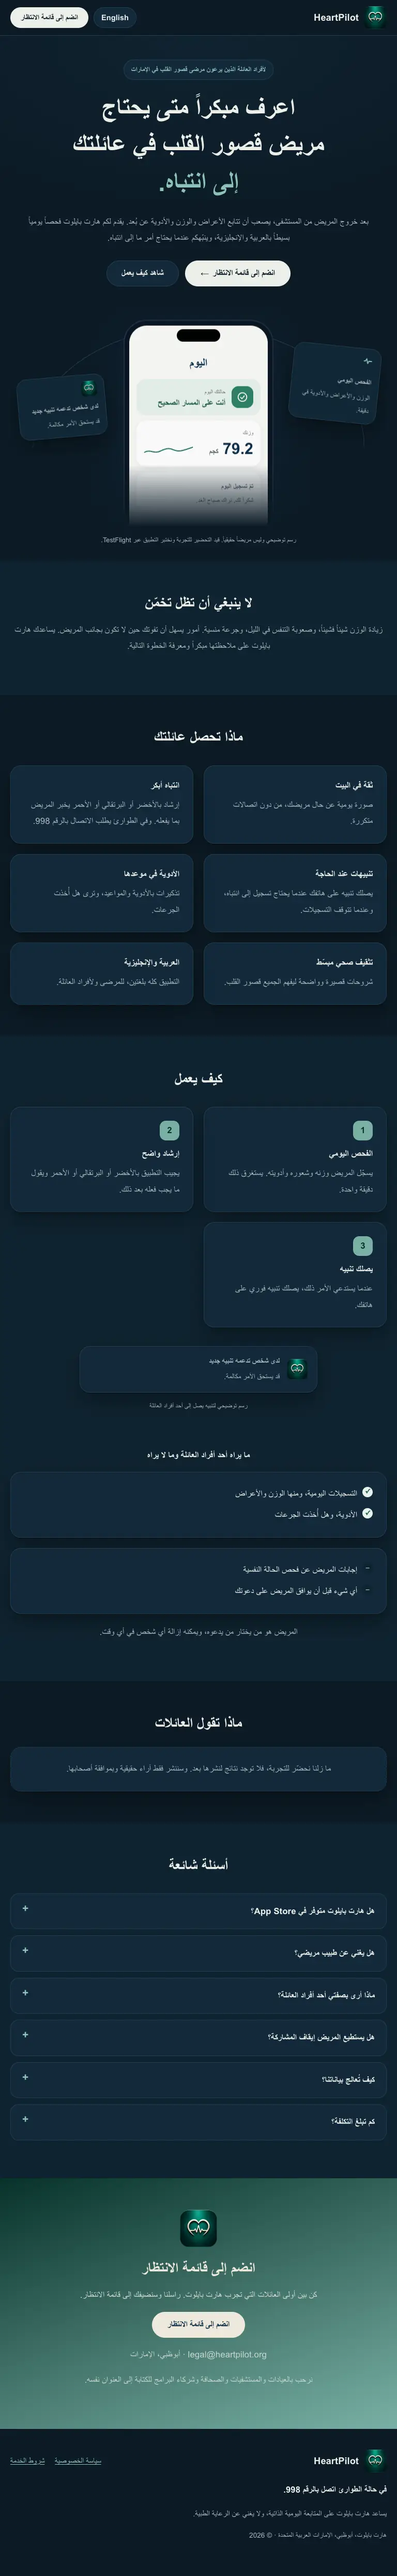
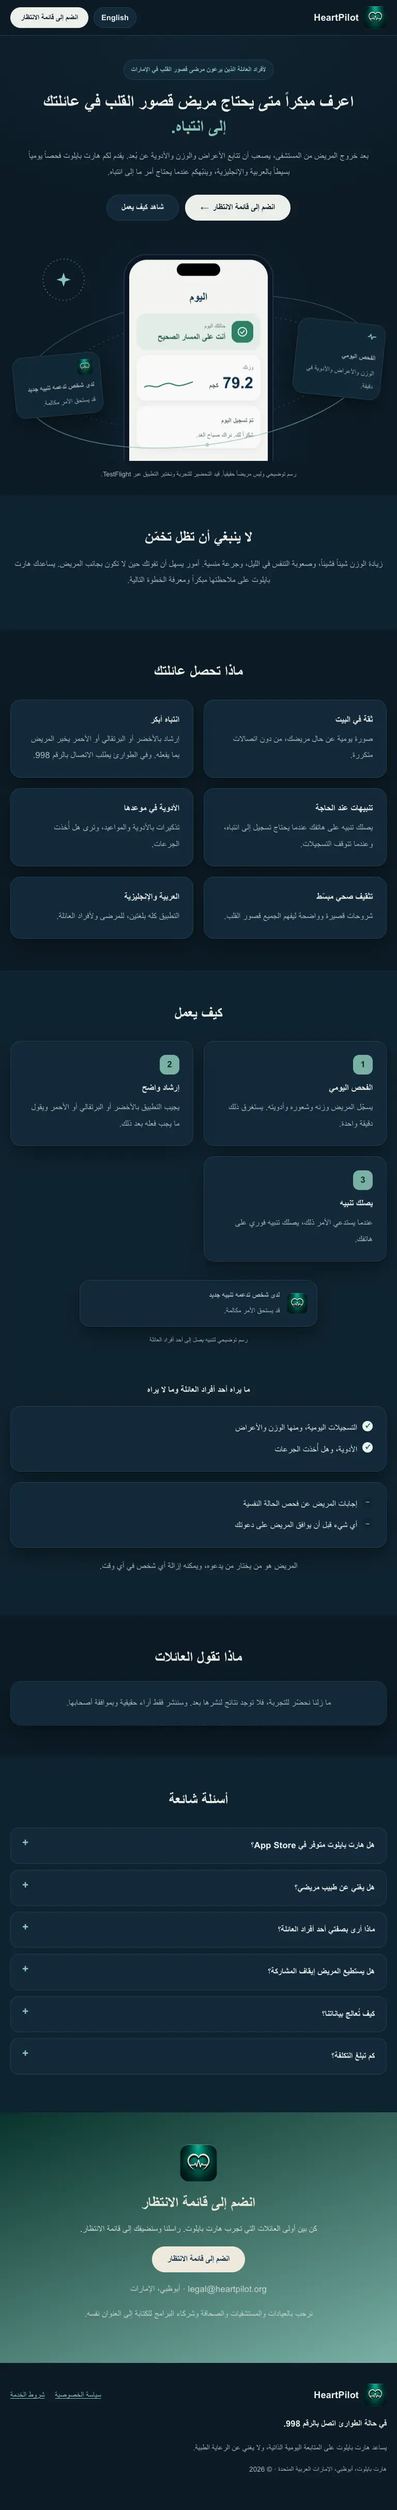
Add an orbit around the hero phone, with a rotating badge

diff --git a/assets/css/styles.css b/assets/css/styles.css
@@ -49,9 +49,9 @@ p{margin:0 0 1em}
 /* hero (layout after the supplied reference: centred headline, italic second line, glass cards around a central visual) */
 .hero{padding:clamp(36px,6vw,80px) 0 0;background:radial-gradient(900px 480px at 50% 0%,var(--alt),transparent 70%);overflow:hidden}
 .eyebrow{display:inline-block;margin:0 0 20px;padding:6px 14px;border-radius:999px;background:var(--surface);border:1px solid var(--line);color:var(--teal-text);font-weight:700;font-size:.85rem}
-.hero h1{font-size:clamp(2.2rem,6.4vw,4.6rem);line-height:1.08;letter-spacing:-.03em;max-width:16em;margin-inline:auto;text-wrap:balance}
+.hero h1{font-size:clamp(2.1rem,5.2vw,4.1rem);line-height:1.1;letter-spacing:-.03em;max-width:19em;margin-inline:auto;text-wrap:balance}
 .hero h1 em{display:block;font-style:italic;font-weight:400;color:var(--teal-text)}
-html[lang=ar] .hero h1 em{font-style:normal;font-weight:700}
+html[lang=ar] .hero h1{font-size:clamp(1.8rem,4.4vw,3.3rem);line-height:1.4}html[lang=ar] .hero h1 em{font-style:normal;font-weight:700}
 .hero .lead{max-width:40em;margin:0 auto 28px}
 .cta{display:flex;flex-wrap:wrap;gap:12px;justify-content:center;margin:0 0 8px}
 .btn-dark{background:var(--ink);border-color:var(--ink);color:var(--bg)}
@@ -59,10 +59,18 @@ html[lang=ar] .hero h1 em{font-style:normal;font-weight:700}
 .btn-ghost{background:var(--surface);color:var(--ink);border:1px solid var(--line)}
 .btn-ghost:hover{border-color:var(--ink);box-shadow:none}
 .arr{font-style:normal;margin-inline-start:8px}html[dir=rtl] .arr{display:inline-block;transform:scaleX(-1)}
-.stage{position:relative;max-width:980px;margin:44px auto 0;height:clamp(420px,52vw,560px);overflow:hidden}
+.stage{position:relative;max-width:1040px;margin:44px auto 0;height:clamp(420px,52vw,560px);overflow:hidden}
 .stage::after{content:"";position:absolute;inset-inline:0;bottom:0;height:120px;background:linear-gradient(transparent,var(--bg));pointer-events:none}
-.arc{position:absolute;inset:0;width:100%;height:100%;color:var(--line)}
-.phone{position:absolute;inset-inline:0;margin-inline:auto;top:20px;width:min(290px,64vw);height:560px;background:#0B1623;border-radius:44px;padding:11px;box-shadow:0 30px 70px rgba(16,49,74,.3),inset 0 0 0 2px #223249;animation:rise .9s cubic-bezier(.2,.7,.2,1) both}
+.orbit{position:absolute;inset:0;width:100%;height:100%;color:var(--teal);pointer-events:none}
+.orbit-back{opacity:.35;z-index:0}.orbit-front{opacity:.55;z-index:4}
+.badge{position:absolute;inset-inline-end:7%;top:18px;width:104px;height:104px;color:var(--teal-text);z-index:5}
+.badge svg{width:100%;height:100%;overflow:visible}
+.badge text{font:700 9.5px Arial,sans-serif;letter-spacing:.18em;fill:currentColor}
+html[lang=ar] .badge text{letter-spacing:0;font-size:11px}
+.spin{transform-origin:60px 60px;animation:spin 28s linear infinite}
+@keyframes spin{to{transform:rotate(360deg)}}
+@media (max-width:640px){.badge{display:none}}
+.phone{z-index:2;position:absolute;inset-inline:0;margin-inline:auto;top:20px;width:min(290px,64vw);height:560px;background:#0B1623;border-radius:44px;padding:11px;box-shadow:0 30px 70px rgba(16,49,74,.3),inset 0 0 0 2px #223249;animation:rise .9s cubic-bezier(.2,.7,.2,1) both}
 .notch{position:absolute;top:18px;inset-inline:0;margin-inline:auto;width:84px;height:24px;background:#000;border-radius:14px;z-index:2}
 .screen{height:100%;border-radius:34px;background:#FAF9F7;padding:52px 14px 14px;display:flex;flex-direction:column;gap:10px;color:#10314A;overflow:hidden}
 .s-top b{font-size:1.4rem}
@@ -76,18 +84,18 @@ html[lang=ar] .hero h1 em{font-style:normal;font-weight:700}
 .spark{width:96px;position:absolute;inset-inline-end:14px;bottom:16px;color:#166B5C}
 .s-done{background:#fff;box-shadow:0 2px 10px rgba(16,49,74,.07);display:flex;flex-direction:column;gap:2px}
 .s-done b{font-size:.95rem}.s-done span{font-size:.8rem;color:#5F6B70}
-.gcard{position:absolute;width:210px;padding:16px 18px;border-radius:20px;background:color-mix(in srgb,var(--surface) 82%,transparent);backdrop-filter:blur(12px);-webkit-backdrop-filter:blur(12px);border:1px solid var(--line);box-shadow:var(--shadow);text-align:start;z-index:3}
+.gcard{position:absolute;width:210px;padding:16px 18px;border-radius:20px;background:color-mix(in srgb,var(--surface) 82%,transparent);backdrop-filter:blur(12px);-webkit-backdrop-filter:blur(12px);border:1px solid var(--line);box-shadow:var(--shadow);text-align:start;z-index:5}
 .gcard b{display:block;font-size:.95rem;margin:8px 0 4px}.gcard span{font-size:.85rem;color:var(--muted);display:block}
 .gcard svg{color:var(--teal-text)}.gcard .logo{width:30px;height:30px;border-radius:8px}
-.g-left{inset-inline-start:2%;top:90px;transform:rotate(-6deg)}
-.g-right{inset-inline-end:2%;top:150px;transform:rotate(5deg)}
+.g-left{inset-inline-start:1%;top:170px;transform:rotate(-6deg)}
+.g-right{inset-inline-end:1%;top:230px;transform:rotate(5deg)}
 html[dir=rtl] .g-left{transform:rotate(6deg)}html[dir=rtl] .g-right{transform:rotate(-5deg)}
-.stage-note{position:absolute;inset-inline-start:2%;bottom:56px;margin:0;font-size:.85rem;color:var(--muted);text-align:start;max-width:200px;z-index:3}
+.stage-note{position:absolute;inset-inline-start:3%;top:60px;margin:0;font-size:.85rem;color:var(--muted);text-align:start;max-width:200px;z-index:5}
 .stage-note i{display:block;width:28px;height:2px;background:var(--line);margin-bottom:8px}
-.stage-tag{position:absolute;inset-inline-end:2%;bottom:56px;margin:0;font-size:.85rem;color:var(--muted);text-align:end;max-width:170px;z-index:3}
+.stage-tag{position:absolute;inset-inline-end:2%;bottom:56px;margin:0;font-size:.85rem;color:var(--muted);text-align:end;max-width:170px;z-index:5}
 .cap{font-size:.8rem;color:var(--muted);margin:0;padding:14px 0 28px}
-@media (max-width:900px){.gcard{width:170px;padding:12px 14px}.g-left{top:70px}.g-right{top:130px}.stage-note,.stage-tag{display:none}}
-@media (max-width:640px){.stage{height:480px}.phone{height:520px}.g-left{inset-inline-start:-6px;top:200px;width:150px}.g-right{inset-inline-end:-6px;top:290px;width:150px}.gcard span{display:none}}
+@media (max-width:900px){.gcard{width:170px;padding:12px 14px}.g-left{top:150px}.g-right{top:215px}.stage-note,.stage-tag{display:none}}
+@media (max-width:640px){.stage{height:480px}.phone{height:520px}.g-left{inset-inline-start:-6px;top:385px;width:150px}.g-right{inset-inline-end:-6px;top:415px;width:150px}.gcard span{display:none}}
 /* header pill nav */
 .pill-nav{display:flex;gap:2px;padding:5px;border-radius:999px;background:var(--surface);border:1px solid var(--line)}
 .pill-nav a{padding:8px 16px;border-radius:999px;text-decoration:none;color:var(--ink);font-weight:700;font-size:.88rem}

diff --git a/index.html b/index.html
@@ -45,7 +45,9 @@
 <p class="lead"><span data-l="en">After hospital discharge, symptoms, weight and medicines are easy to miss from a distance. HeartPilot gives your family a simple daily check-in in English and Arabic, and alerts you when something needs attention.</span><span data-l="ar" lang="ar">بعد خروج المريض من المستشفى، يصعب أن تتابع الأعراض والوزن والأدوية عن بُعد. يقدم لكم هارت بايلوت فحصاً يومياً بسيطاً بالعربية والإنجليزية، وينبّهكم عندما يحتاج أمر ما إلى انتباه.</span></p>
 <div class="cta"><a class="btn btn-dark" href="#contact"><span data-l="en">Join the waitlist</span><span data-l="ar" lang="ar">انضم إلى قائمة الانتظار</span><i aria-hidden="true" class="arr">→</i></a><a class="btn btn-ghost" href="#how"><span data-l="en">See how it works</span><span data-l="ar" lang="ar">شاهد كيف يعمل</span></a></div>
 <div class="stage" role="img" aria-label="An illustration of the HeartPilot Today screen showing the message You are on track, with a daily check-in card and a caregiver alert card" data-aria-en="An illustration of the HeartPilot Today screen showing the message You are on track, with a daily check-in card and a caregiver alert card" data-aria-ar="رسم توضيحي لشاشة اليوم في هارت بايلوت يعرض رسالة أنت على المسار الصحيح، مع بطاقة الفحص اليومي وبطاقة تنبيه لأحد أفراد العائلة">
-<svg class="arc" viewBox="0 0 1000 520" preserveAspectRatio="none" aria-hidden="true"><path d="M60 330C60 120 330 40 500 40s440 80 440 290" fill="none" stroke="currentColor" stroke-width="1.2"/></svg>
+<svg class="orbit orbit-back" viewBox="0 0 1000 560" preserveAspectRatio="none" aria-hidden="true"><g transform="rotate(-7 500 330)" fill="none" stroke="currentColor" stroke-width="1.4" vector-effect="non-scaling-stroke"><ellipse cx="500" cy="330" rx="470" ry="190" vector-effect="non-scaling-stroke"/><ellipse cx="500" cy="330" rx="372" ry="140" stroke-dasharray="3 7" vector-effect="non-scaling-stroke"/></g><g transform="rotate(-7 500 330)" fill="currentColor"><circle cx="500" cy="140" r="5"/><circle cx="130" cy="262" r="4"/><circle cx="905" cy="400" r="4"/></g></svg>
+<svg class="orbit orbit-front" viewBox="0 0 1000 560" preserveAspectRatio="none" aria-hidden="true"><g transform="rotate(-7 500 330)"><path d="M30 330A470 190 0 0 0 970 330" fill="none" stroke="currentColor" stroke-width="1.8" vector-effect="non-scaling-stroke"/><circle cx="500" cy="520" r="5" fill="currentColor"/></g></svg>
+<div class="badge" aria-hidden="true"><svg viewBox="0 0 120 120"><defs><path id="bc" d="M60 60m-46 0a46 46 0 1 1 92 0a46 46 0 1 1-92 0"/></defs><g class="spin"><text data-l="en"><textPath href="#bc">DAILY CHECK-IN · EARLIER AWARENESS · </textPath></text><circle data-l="ar" cx="60" cy="60" r="46" fill="none" stroke="currentColor" stroke-width="1.2" stroke-dasharray="2 6"/></g><path d="M60 44l4 12 12 4-12 4-4 12-4-12-12-4 12-4z" fill="currentColor"/></svg></div>
 <div class="gcard g-left" aria-hidden="true"><svg viewBox="0 0 24 24" width="22" height="22"><path d="M4 12h3l2-5 3 10 2-5h6" fill="none" stroke="currentColor" stroke-width="2" stroke-linecap="round" stroke-linejoin="round"/></svg><b><span data-l="en">Daily check-in</span><span data-l="ar" lang="ar">الفحص اليومي</span></b><span><span data-l="en">Weight, symptoms and medicines in a minute.</span><span data-l="ar" lang="ar">الوزن والأعراض والأدوية في دقيقة.</span></span></div>
 <div class="phone" aria-hidden="true"><div class="notch"></div><div class="screen">
 <div class="s-top"><b><span data-l="en">Today</span><span data-l="ar" lang="ar">اليوم</span></b></div>
